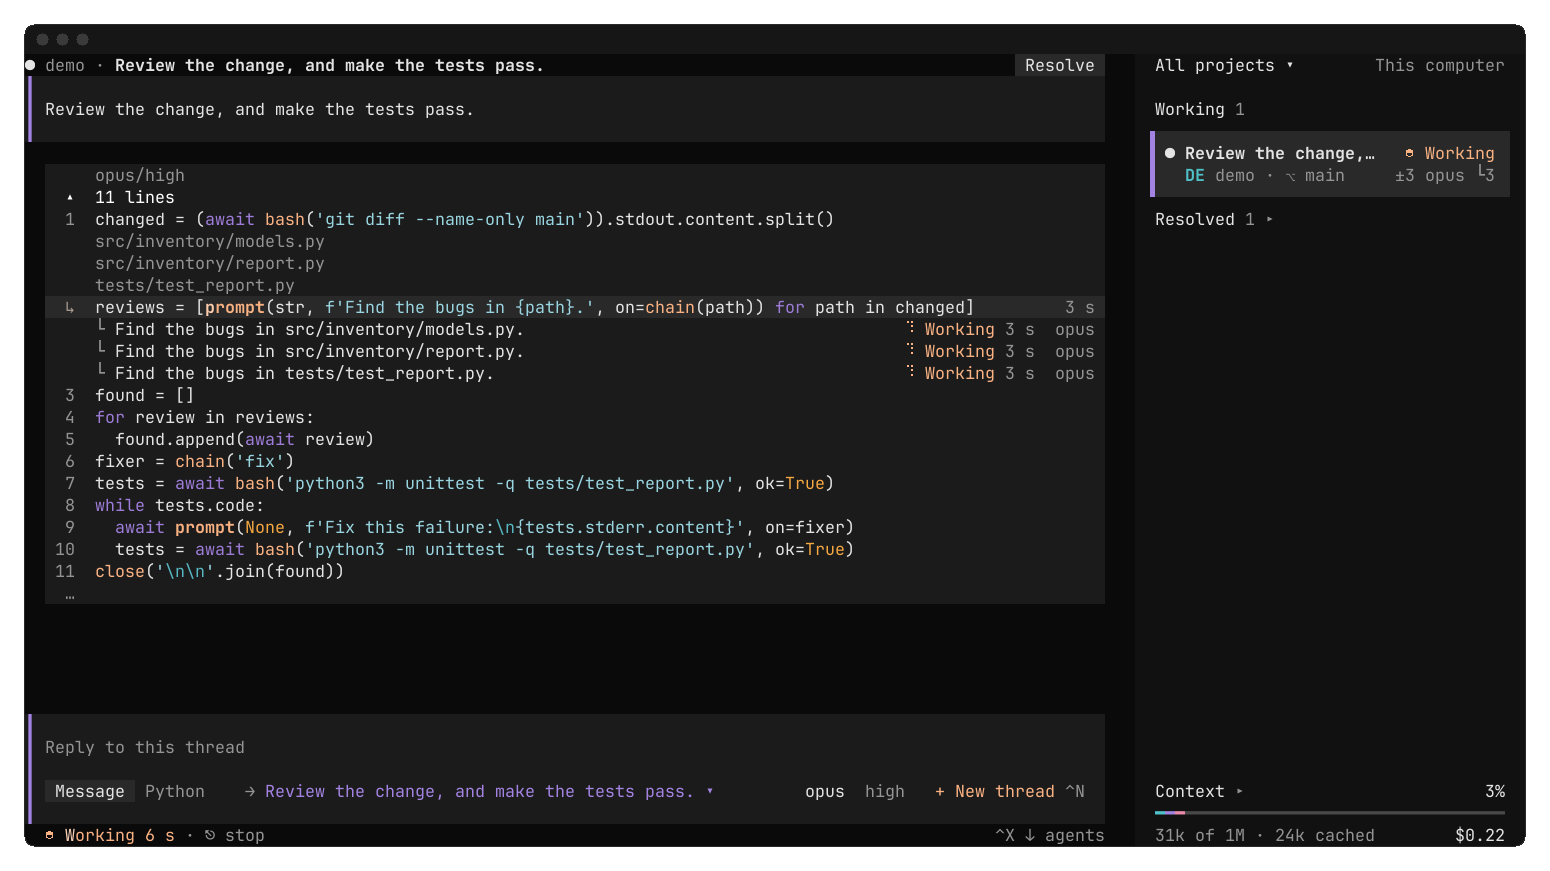
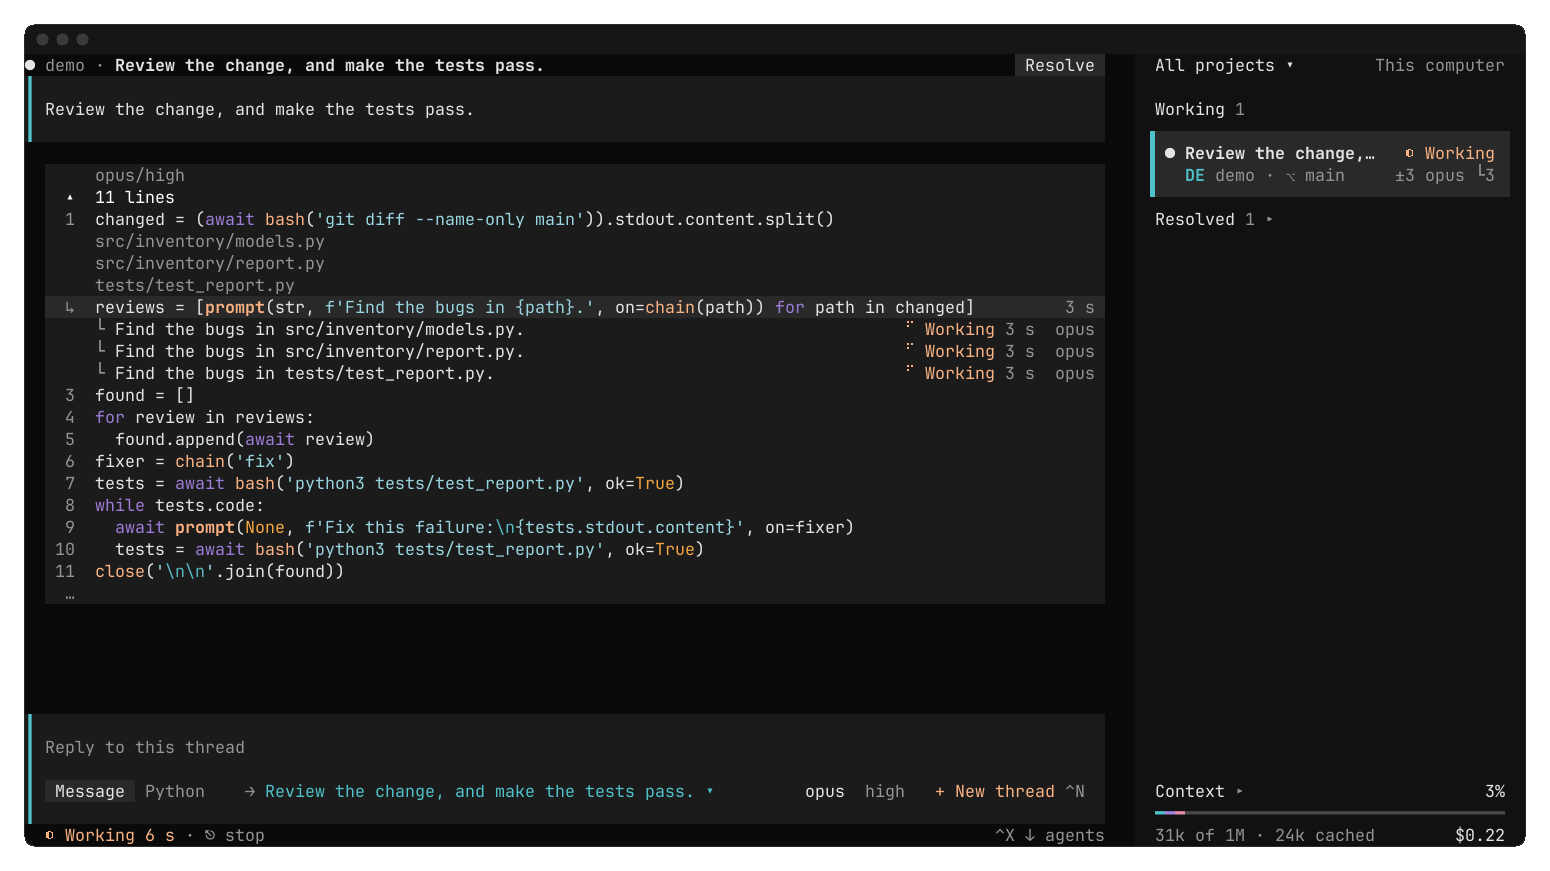
fix(frames): Give the fixer of the README the output of the tests
The reply of the README asked the fixer with `tests.stderr`, which a command with no stderr show
leaves empty, since its stderr flows into its stdout: the fixer would read no failure. The reply
reads `tests.stdout` again, and the README and the walk run the test as a script of plain asserts,
`python3 tests/test_report.py`, whose failure is the traceback of the bug. The images of the README
show the run again, with the traceback under the line of the tests.

diff --git a/frames/src/scenario.rs b/frames/src/scenario.rs
@@ -196,10 +196,10 @@ found = []
 for review in reviews:
   found.append(await review)
 fixer = chain('fix')
-tests = await bash('python3 -m unittest -q tests/test_report.py', ok=True)
+tests = await bash('python3 tests/test_report.py', ok=True)
 while tests.code:
-  await prompt(None, f'Fix this failure:\n{tests.stderr.content}', on=fixer)
-  tests = await bash('python3 -m unittest -q tests/test_report.py', ok=True)
+  await prompt(None, f'Fix this failure:\n{tests.stdout.content}', on=fixer)
+  tests = await bash('python3 tests/test_report.py', ok=True)
 close('\n\n'.join(found))";
 
 /// The word of the change before the review: a count on each item, a report of the total with a
@@ -208,19 +208,16 @@ const CHANGE: &str = r"m = read('src/inventory/models.py')
 write(m.replace('self.name = name', 'self.name = name\n    self.count = 0'))
 write(Text('src/inventory/report.py', 'def total(items):\n  return sum(one.name for one in items)\n'))
 write(Text('tests/test_report.py', '''import sys
-import unittest
 
 sys.path.insert(0, 'src')
 
 from inventory.models import Item
 from inventory.report import total
 
-
-class Total(unittest.TestCase):
-  def test_sums_the_counts(self):
-    a, b = Item('a'), Item('b')
-    a.count, b.count = 2, 3
-    self.assertEqual(total([a, b]), 5)
+a, b = Item('a'), Item('b')
+a.count, b.count = 2, 3
+assert total([a, b]) == 5
+print('The total is right.')
 '''))
 await bash('git add src tests')
 close('Each item has a count, and report.py sums them.')";

diff --git a/README.md b/README.md
@@ -47,10 +47,10 @@ found = []
 for review in reviews:
   found.append(await review)
 fixer = chain('fix')
-tests = await bash('python3 -m unittest -q tests/test_report.py', ok=True)
+tests = await bash('python3 tests/test_report.py', ok=True)
 while tests.code:
-  await prompt(None, f'Fix this failure:\n{tests.stderr.content}', on=fixer)
-  tests = await bash('python3 -m unittest -q tests/test_report.py', ok=True)
+  await prompt(None, f'Fix this failure:\n{tests.stdout.content}', on=fixer)
+  tests = await bash('python3 tests/test_report.py', ok=True)
 close('\n\n'.join(found))
 ```
 
